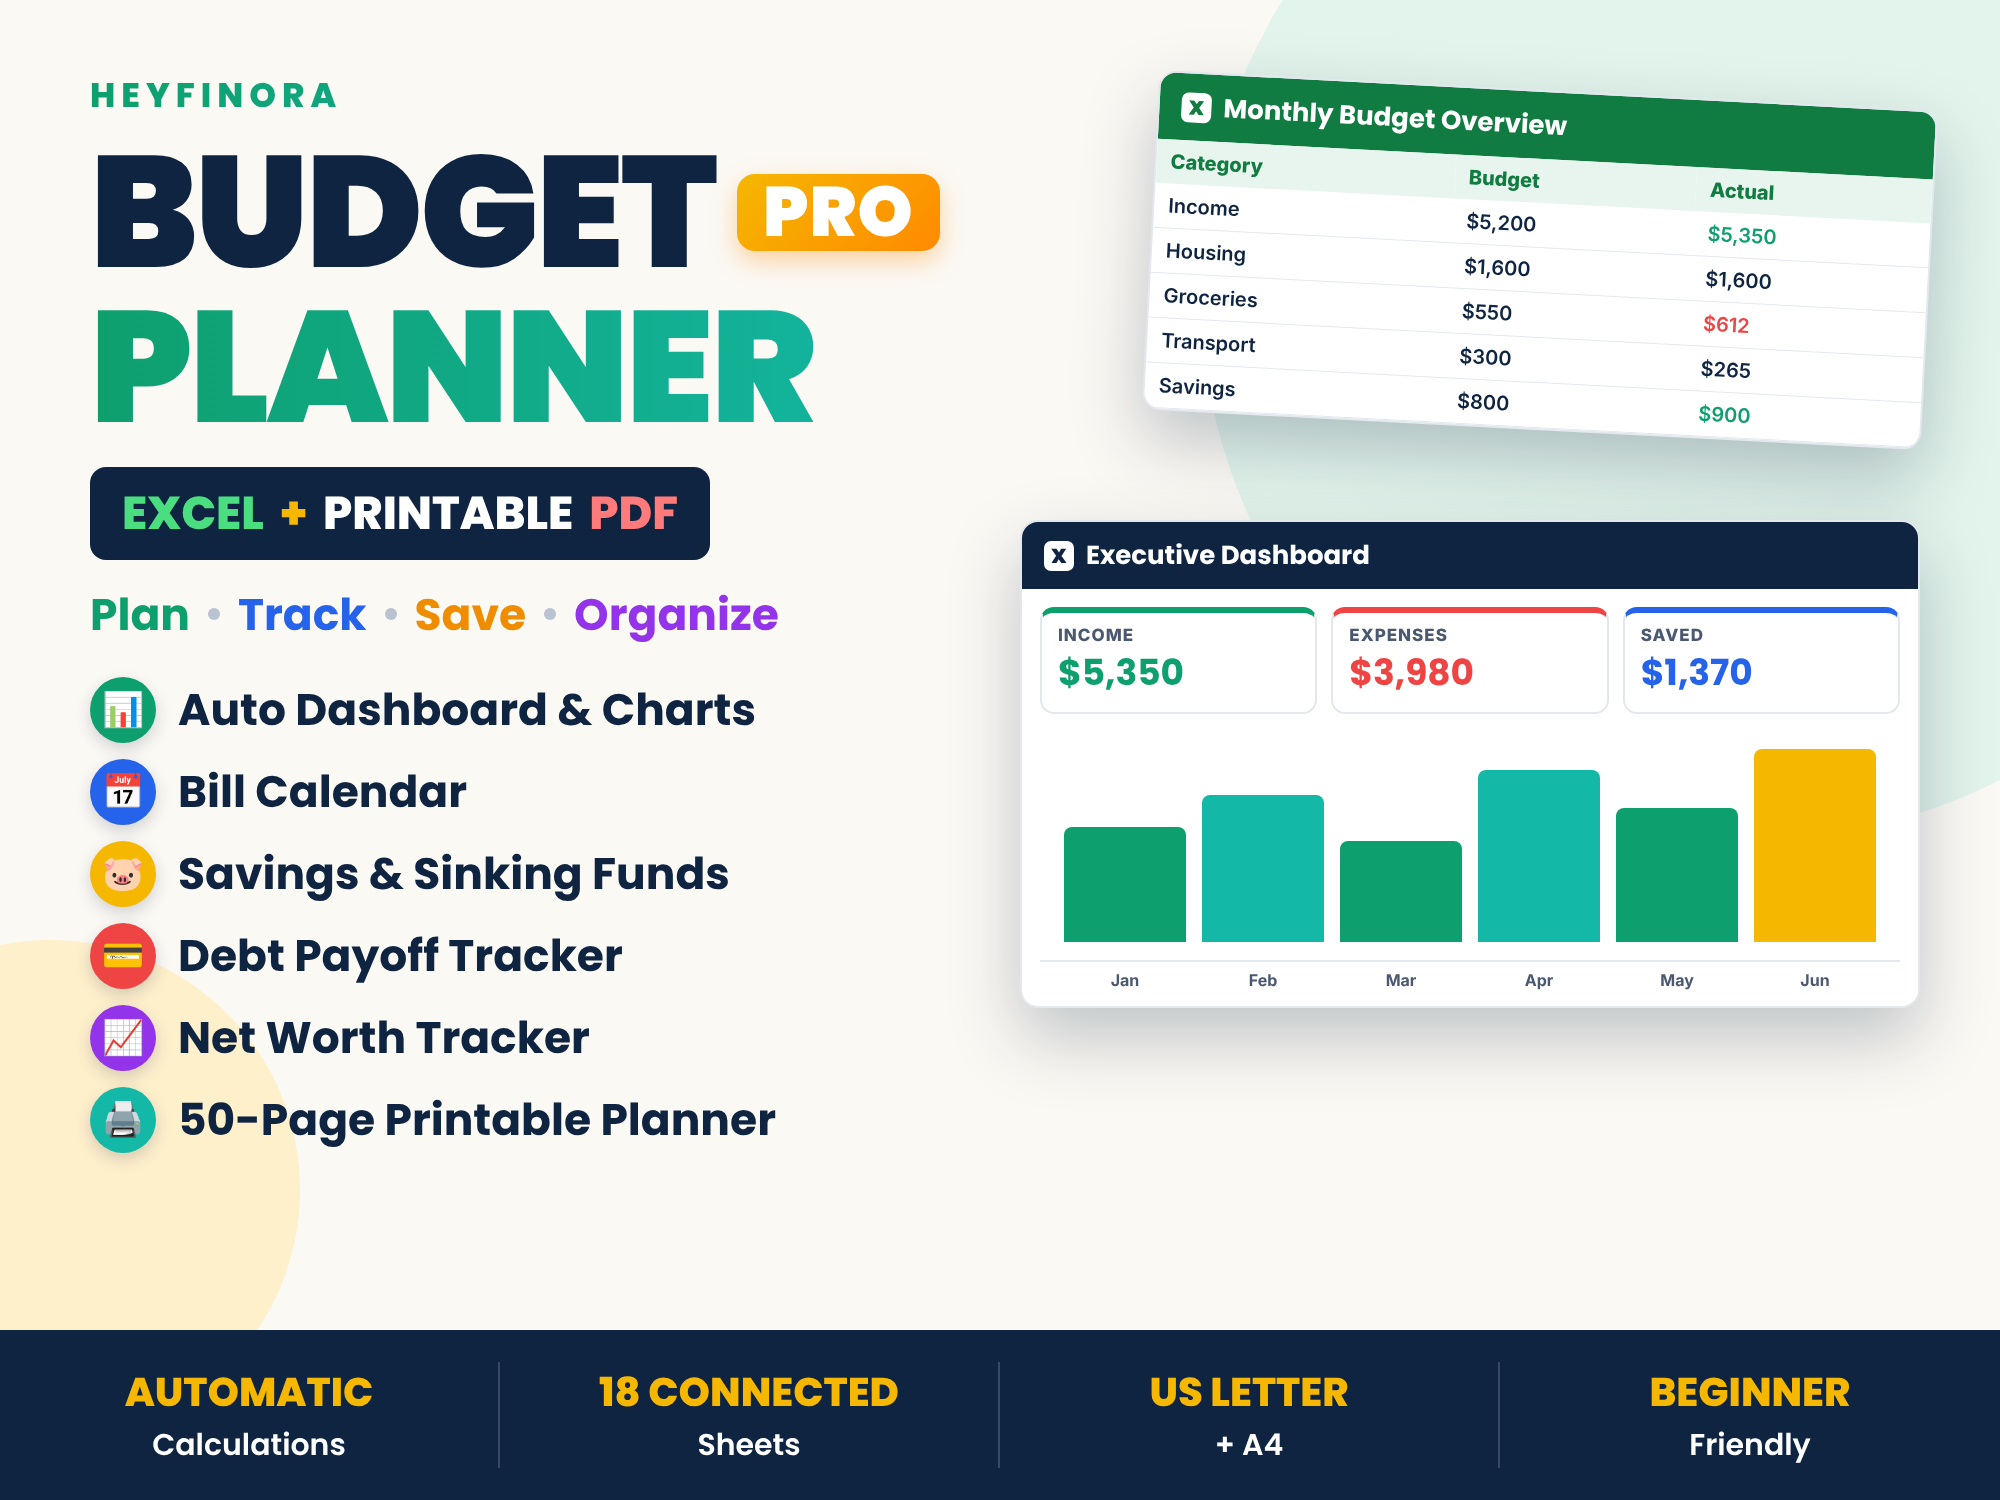
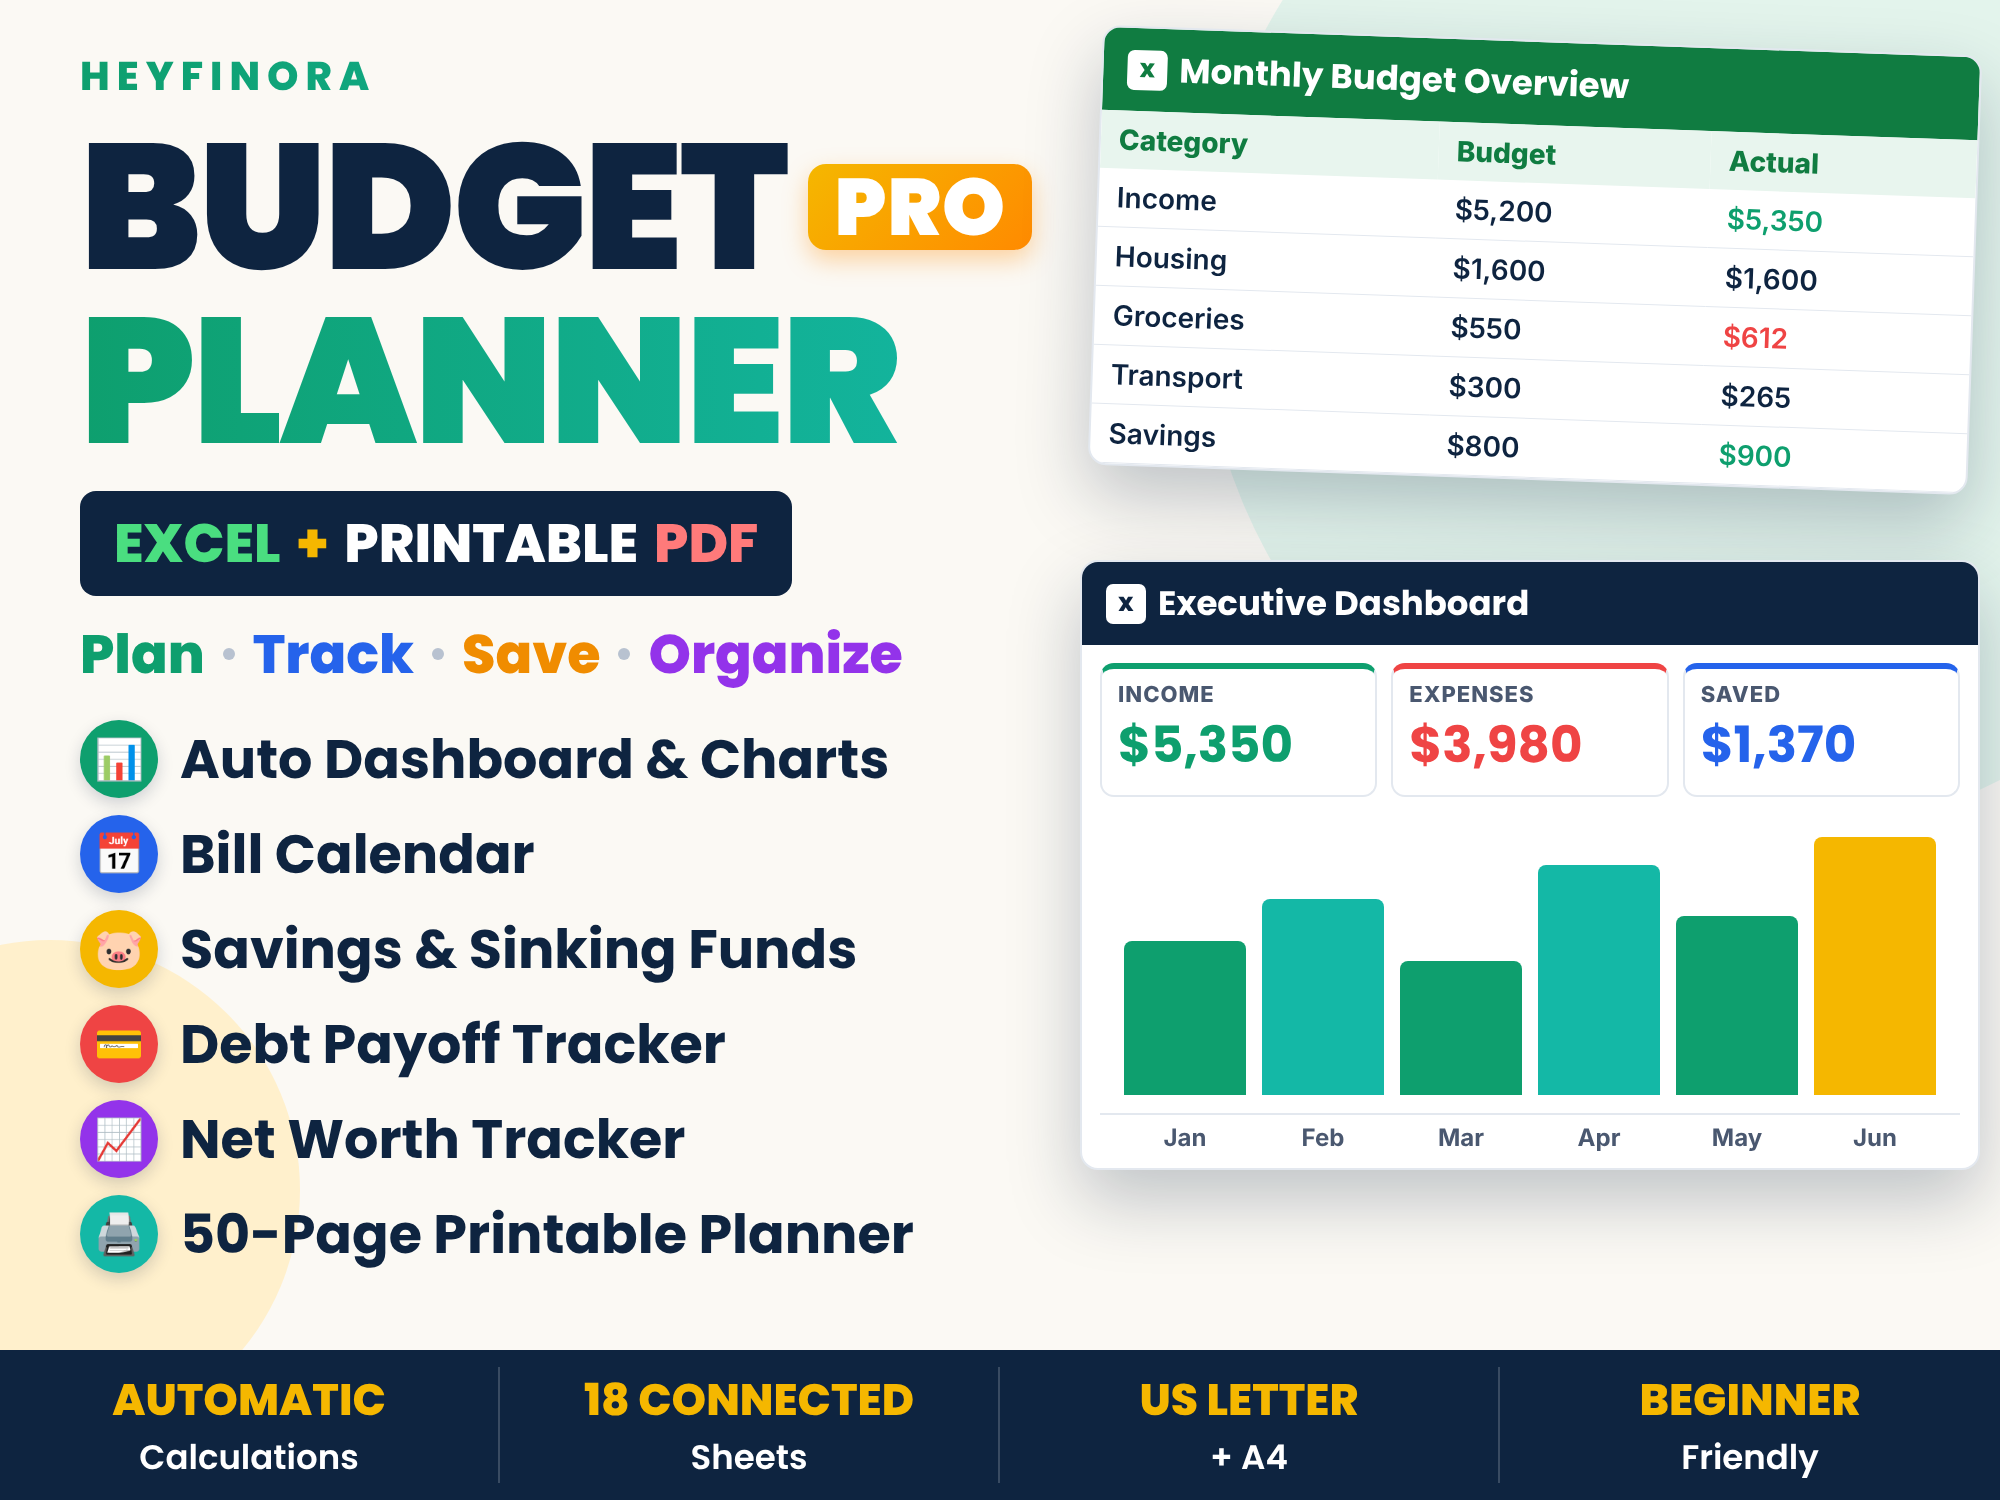
Budget Planner thumbnail: larger mockups and text
Claude-Session: https://claude.ai/code/session_01JXSyMovszCbL9FMwkaUbGU

diff --git a/images/src/budget-planner-thumbnail.html b/images/src/budget-planner-thumbnail.html
@@ -7,35 +7,35 @@
 body{background:#777;font-family:Inter,sans-serif;color:var(--navy)}
 #thumb{width:2000px;height:1500px;position:relative;overflow:hidden;background:var(--cream)}
 .blob{position:absolute;border-radius:50%}
-.left{position:absolute;left:90px;top:70px;width:900px}
-.brand{font-family:Poppins;font-weight:800;font-size:34px;letter-spacing:6px;background:linear-gradient(90deg,var(--em),var(--em2));-webkit-background-clip:text;color:transparent}
+.left{position:absolute;left:80px;top:46px;width:1000px}
+.brand{font-family:Poppins;font-weight:800;font-size:40px;letter-spacing:7px;background:linear-gradient(90deg,var(--em),var(--em2));-webkit-background-clip:text;color:transparent}
 h1{font-family:Poppins;font-weight:900;line-height:.98;letter-spacing:-3px;margin-top:14px}
-h1 .b{font-size:158px;color:var(--navy);display:flex;align-items:center;gap:22px}
-h1 .pro{font-size:70px;letter-spacing:1px;background:linear-gradient(135deg,var(--gold),var(--gold2));color:#fff;padding:4px 26px;border-radius:18px;box-shadow:0 10px 24px rgba(255,138,0,.35)}
-h1 .p{font-size:158px;background:linear-gradient(90deg,var(--em),var(--em2));-webkit-background-clip:text;color:transparent}
-.fmt{display:inline-flex;align-items:center;gap:16px;margin-top:22px;background:var(--navy);color:#fff;font-family:Poppins;font-weight:800;font-size:46px;padding:12px 32px;border-radius:16px}
+h1 .b{font-size:178px;color:var(--navy);display:flex;align-items:center;gap:22px}
+h1 .pro{font-size:80px;letter-spacing:1px;background:linear-gradient(135deg,var(--gold),var(--gold2));color:#fff;padding:4px 26px;border-radius:18px;box-shadow:0 10px 24px rgba(255,138,0,.35)}
+h1 .p{font-size:178px;background:linear-gradient(90deg,var(--em),var(--em2));-webkit-background-clip:text;color:transparent}
+.fmt{display:inline-flex;align-items:center;gap:16px;margin-top:22px;background:var(--navy);color:#fff;font-family:Poppins;font-weight:800;font-size:54px;padding:12px 34px;border-radius:16px}
 .fmt .x{color:#4ADE80}.fmt .pl{color:var(--gold)}.fmt .pdf{color:#FF7A7A}
-.tag{margin-top:22px;font-family:Poppins;font-weight:700;font-size:44px;display:flex;gap:18px;align-items:center}
+.tag{margin-top:18px;font-family:Poppins;font-weight:800;font-size:54px;display:flex;gap:18px;align-items:center}
 .tag i{width:12px;height:12px;border-radius:50%;background:#B8C2D0;display:inline-block}
-.feats{margin-top:30px;display:flex;flex-direction:column;gap:16px}
-.feat{display:flex;align-items:center;gap:22px;font-family:Poppins;font-weight:700;font-size:44px;color:var(--navy)}
-.ic{width:66px;height:66px;border-radius:50%;display:grid;place-items:center;font-size:34px;flex:none;box-shadow:0 6px 16px rgba(14,36,64,.18)}
+.feats{margin-top:24px;display:flex;flex-direction:column;gap:14px}
+.feat{display:flex;align-items:center;gap:22px;font-family:Poppins;font-weight:700;font-size:54px;color:var(--navy)}
+.ic{width:78px;height:78px;border-radius:50%;display:grid;place-items:center;font-size:40px;flex:none;box-shadow:0 6px 16px rgba(14,36,64,.18)}
 /* sheets */
 .sheet{position:absolute;background:#fff;border-radius:18px;box-shadow:0 30px 70px rgba(14,36,64,.25);overflow:hidden;border:2px solid var(--line)}
-.sh-h{background:var(--xl);color:#fff;font-family:Poppins;font-weight:700;font-size:26px;padding:14px 22px;display:flex;gap:12px;align-items:center}
-.sh-h b{width:30px;height:30px;border-radius:7px;background:#fff;color:var(--xl);display:grid;place-items:center;font-size:20px;font-weight:900}
-table{width:100%;border-collapse:collapse;font-size:20px}
-th{background:#E8F5EE;color:var(--xl);text-align:left;padding:10px 14px;font-weight:800}
-td{padding:10px 14px;border-bottom:1px solid var(--line);font-weight:600}
+.sh-h{background:var(--xl);color:#fff;font-family:Poppins;font-weight:700;font-size:34px;padding:16px 24px;display:flex;gap:12px;align-items:center}
+.sh-h b{width:40px;height:40px;border-radius:7px;background:#fff;color:var(--xl);display:grid;place-items:center;font-size:20px;font-weight:900}
+table{width:100%;border-collapse:collapse;font-size:28px}
+th{background:#E8F5EE;color:var(--xl);text-align:left;padding:12px 18px;font-weight:800}
+td{padding:12px 18px;border-bottom:1px solid var(--line);font-weight:600}
 .kpis{display:grid;grid-template-columns:repeat(3,1fr);gap:14px;padding:18px}
 .kpi{border:2px solid var(--line);border-radius:14px;padding:12px 16px}
-.kpi p{font-size:17px;font-weight:800;color:var(--muted);letter-spacing:1px}.kpi h3{font-family:Poppins;font-size:36px}
-.chart{display:flex;align-items:flex-end;gap:16px;height:230px;padding:0 24px 18px;border-bottom:2px solid var(--line);margin:0 18px}
+.kpi p{font-size:22px;font-weight:800;color:var(--muted);letter-spacing:1px}.kpi h3{font-family:Poppins;font-size:50px}
+.chart{display:flex;align-items:flex-end;gap:16px;height:300px;padding:0 24px 18px;border-bottom:2px solid var(--line);margin:0 18px}
 .chart div{flex:1;border-radius:8px 8px 0 0}
-.months{display:flex;gap:16px;padding:8px 42px 16px;font-size:16px;font-weight:700;color:var(--muted)}.months span{flex:1;text-align:center}
-.strip{position:absolute;left:0;right:0;bottom:0;height:170px;background:var(--navy);display:grid;grid-template-columns:repeat(4,1fr);align-items:center;text-align:center;color:#fff;font-family:Poppins}
+.months{display:flex;gap:16px;padding:8px 42px 16px;font-size:24px;font-weight:700;color:var(--muted)}.months span{flex:1;text-align:center}
+.strip{position:absolute;left:0;right:0;bottom:0;height:150px;background:var(--navy);display:grid;grid-template-columns:repeat(4,1fr);align-items:center;text-align:center;color:#fff;font-family:Poppins}
 .strip div{border-right:2px solid rgba(255,255,255,.18);padding:0 10px}.strip div:last-child{border:0}
-.strip b{display:block;font-size:40px;font-weight:800;color:var(--gold)}.strip span{font-size:30px;font-weight:600;color:#fff}
+.strip b{display:block;font-size:44px;font-weight:800;color:var(--gold)}.strip span{font-size:34px;font-weight:600;color:#fff}
 </style></head><body>
 <div id="thumb">
   <div class="blob" style="width:1100px;height:1100px;background:#E3F4EC;right:-300px;top:-260px"></div>
@@ -57,7 +57,7 @@ td{padding:10px 14px;border-bottom:1px solid var(--line);font-weight:600}
   </div>
 
   <!-- back sheet: monthly overview -->
-  <div class="sheet" style="left:1150px;top:90px;width:780px;transform:rotate(3deg)">
+  <div class="sheet" style="left:1095px;top:40px;width:880px;transform:rotate(2deg)">
     <div class="sh-h"><b>X</b>Monthly Budget Overview</div>
     <table>
       <tr><th>Category</th><th>Budget</th><th>Actual</th></tr>
@@ -70,7 +70,7 @@ td{padding:10px 14px;border-bottom:1px solid var(--line);font-weight:600}
   </div>
 
   <!-- front sheet: dashboard -->
-  <div class="sheet" style="left:1020px;top:520px;width:900px">
+  <div class="sheet" style="left:1080px;top:560px;width:900px">
     <div class="sh-h" style="background:var(--navy)"><b style="color:var(--navy)">X</b>Executive Dashboard</div>
     <div class="kpis">
       <div class="kpi" style="border-top:6px solid #0E9F6E"><p>INCOME</p><h3 style="color:#0E9F6E">$5,350</h3></div>
